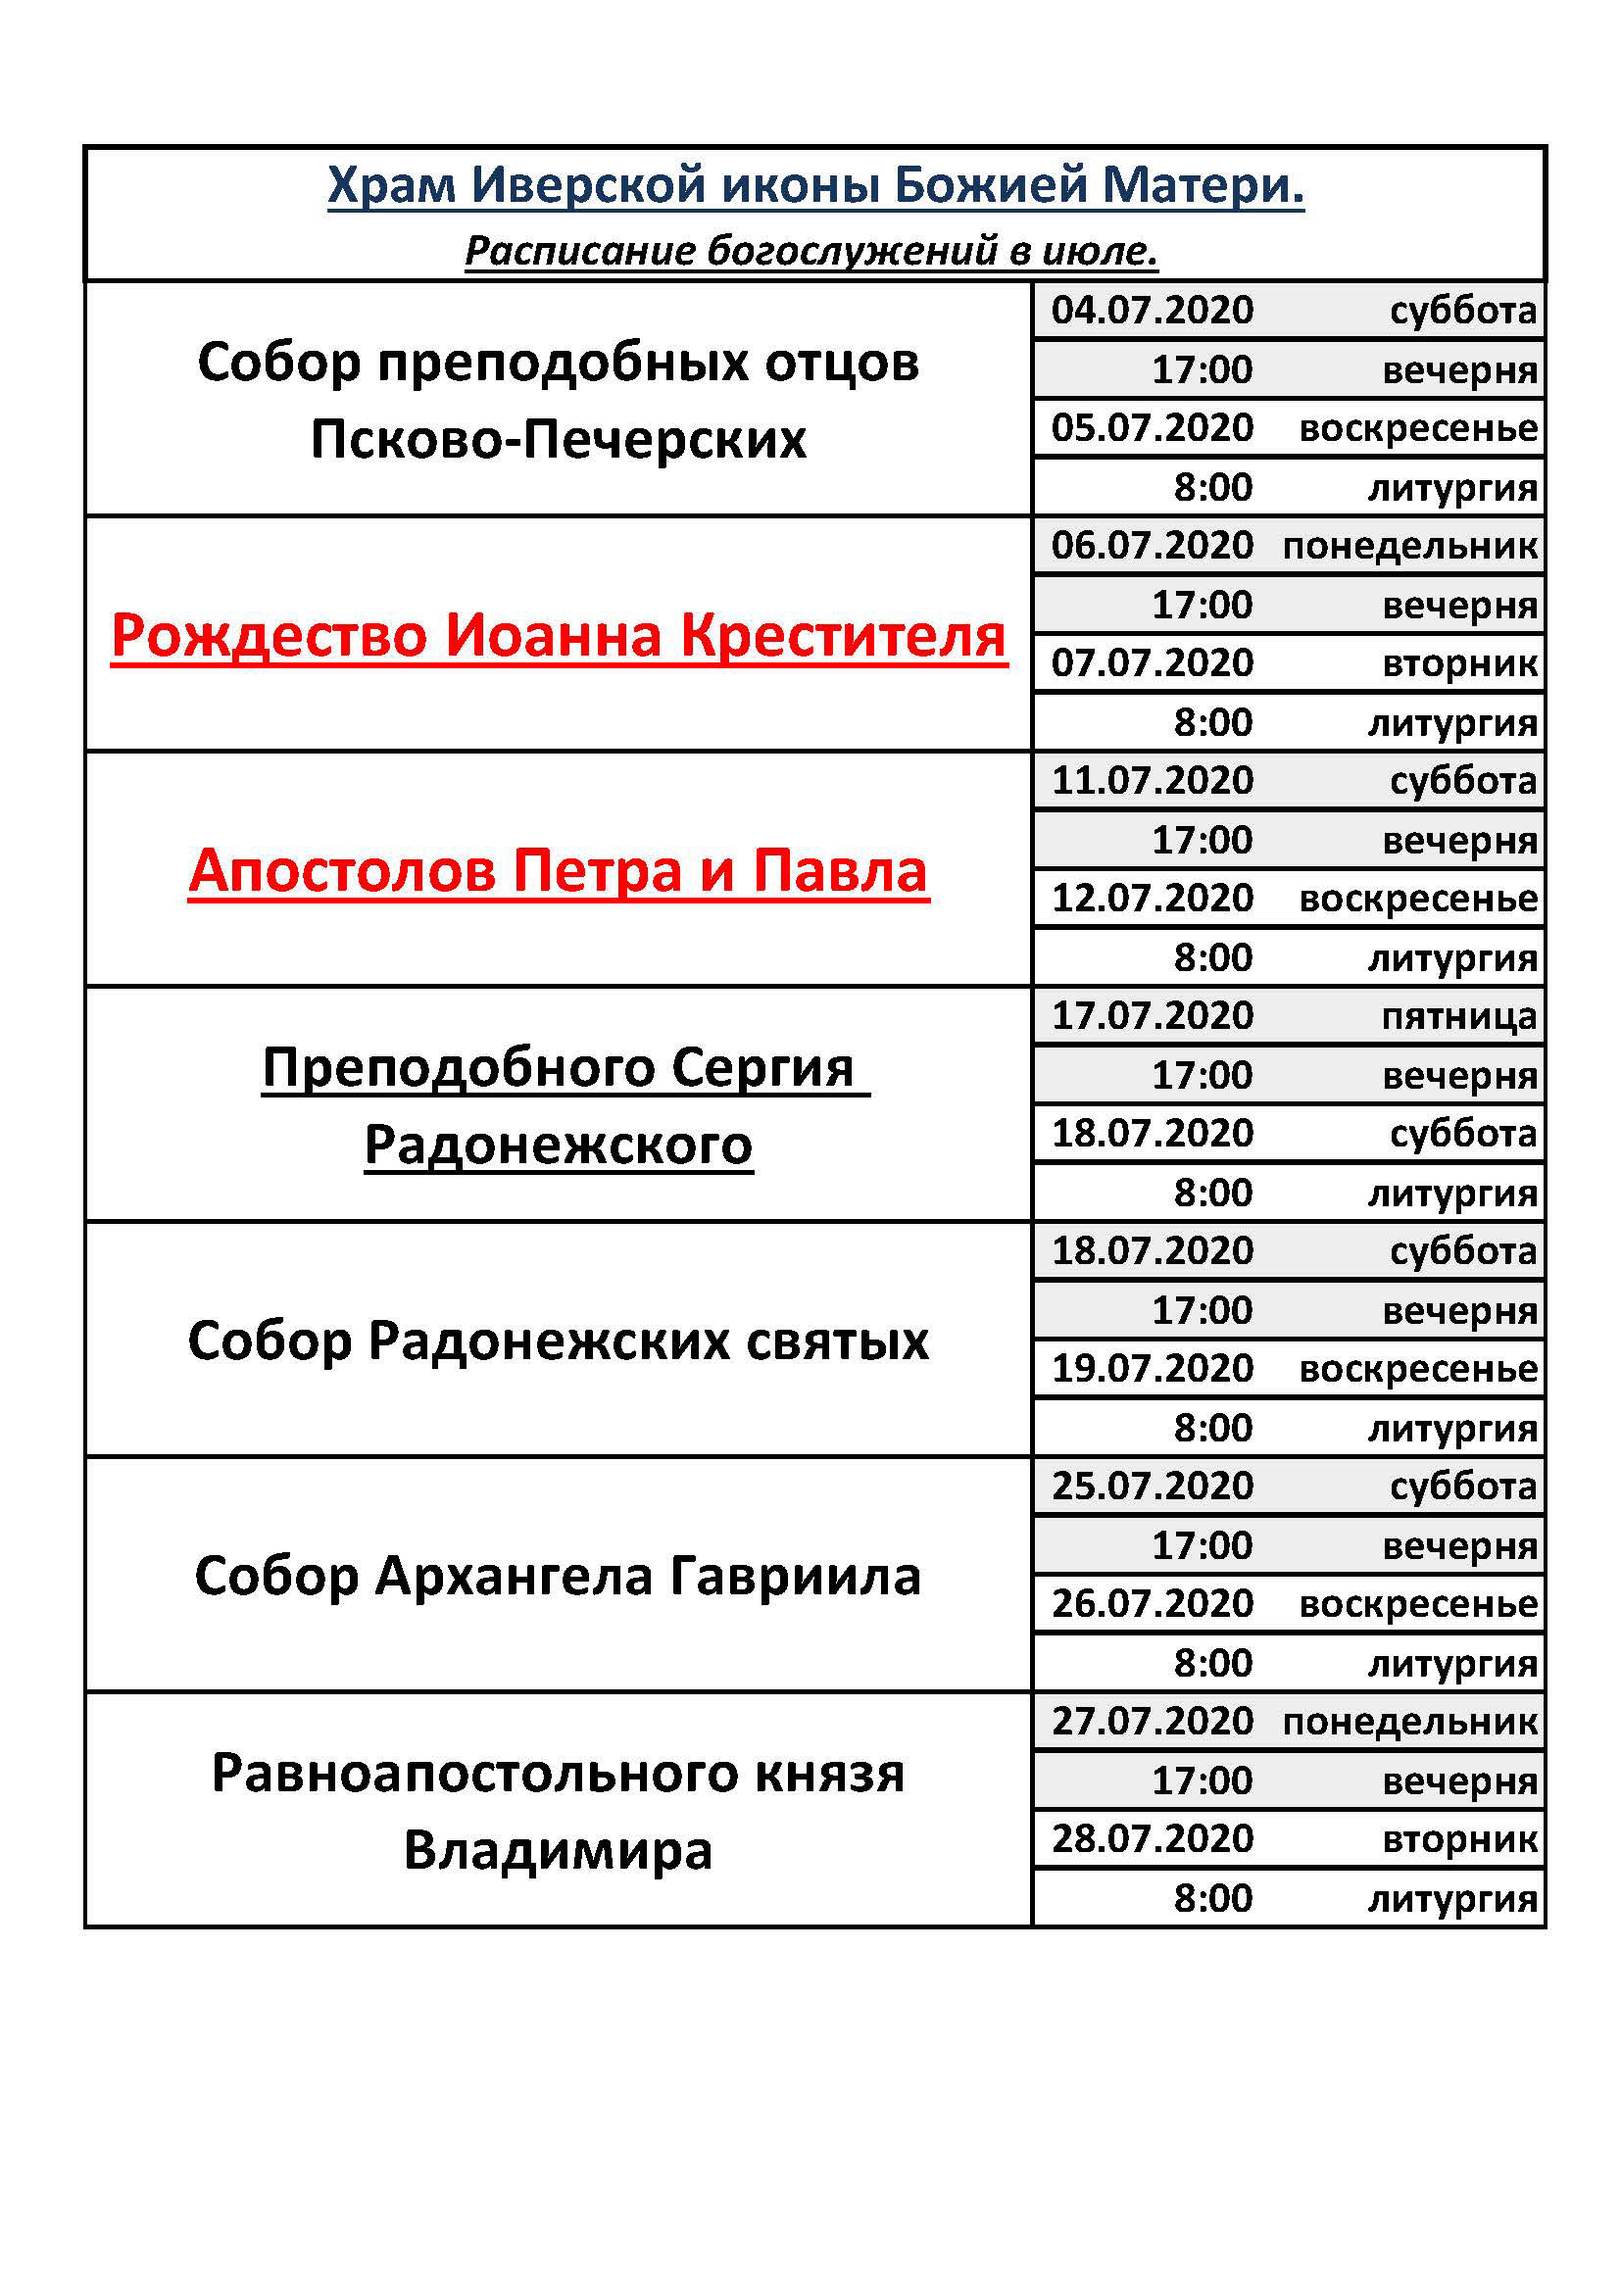
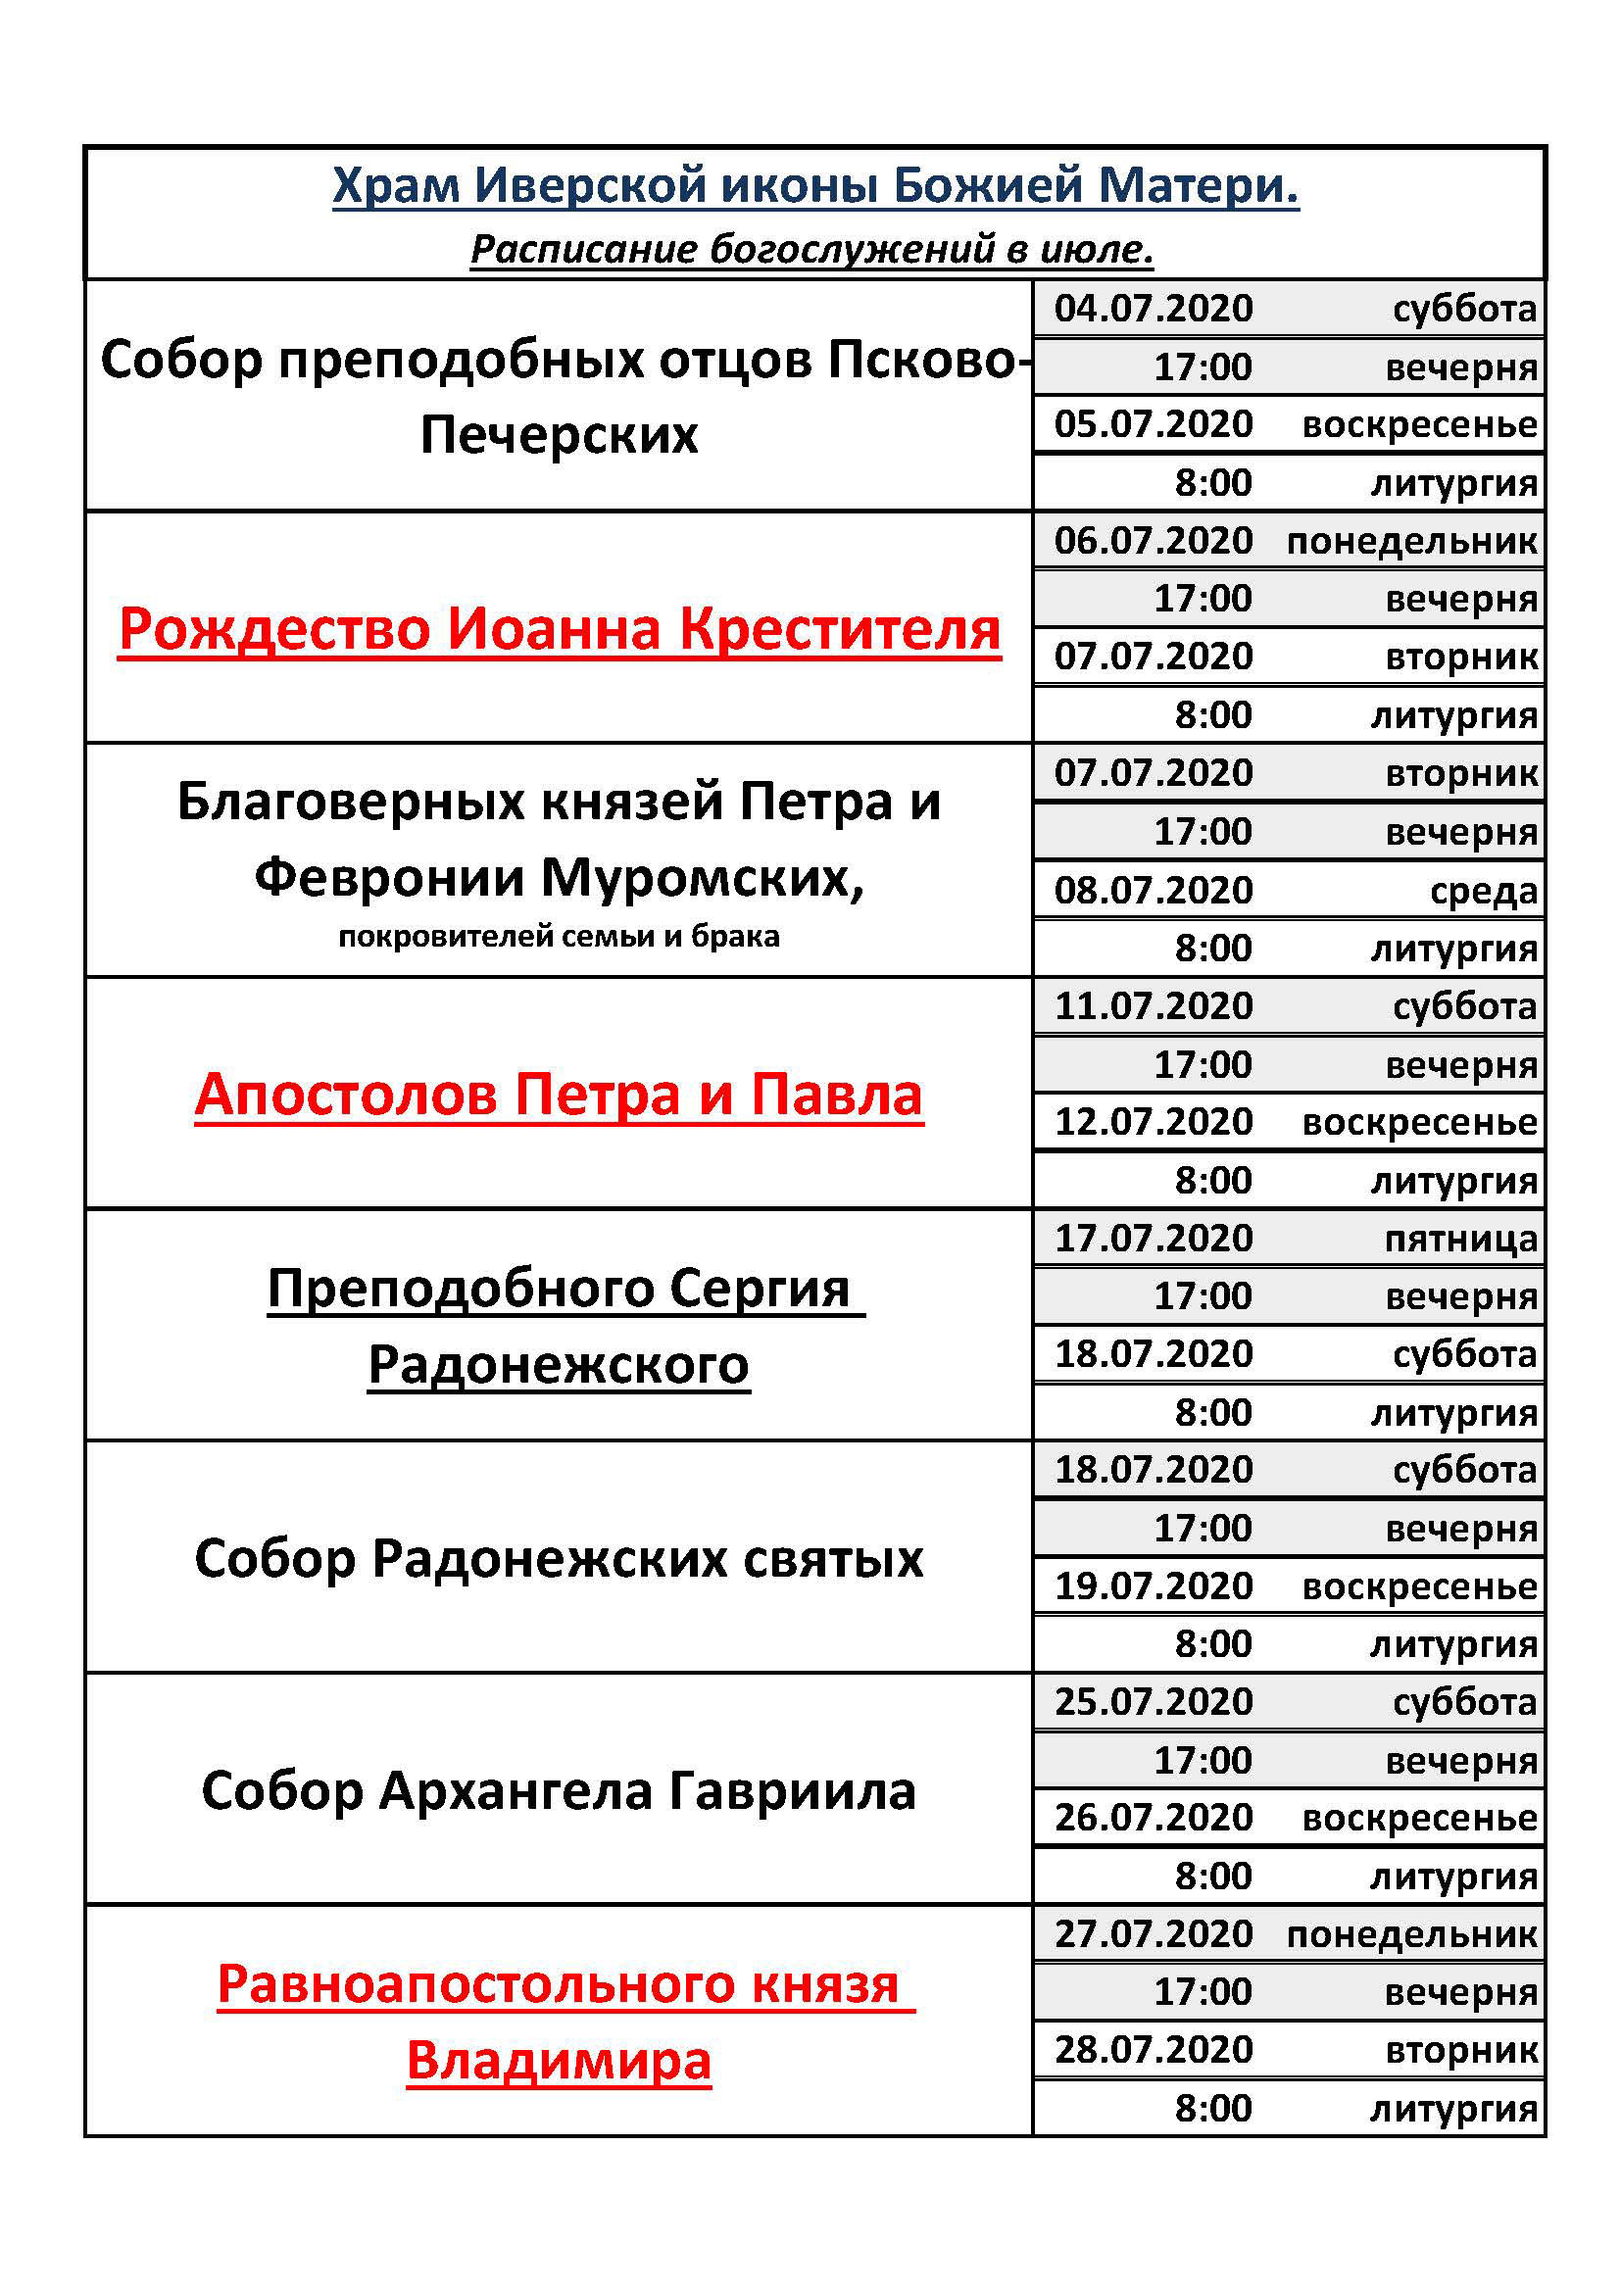
create github pages

Changed region(s): [[0.0617, 0.0624, 0.9559, 0.9363]]

diff --git a/schedule.html b/schedule.html
@@ -81,7 +81,7 @@
     </nav>
 </section>
 
-<section class="engine"><a href="https://mobirise.info/q">free responsive website templates</a></section><section class="mbr-section content5 cid-s39raAkPep mbr-parallax-background" id="content5-g">
+<section class="engine"><a href="https://mobirise.info/k">develop own website</a></section><section class="mbr-section content5 cid-s39raAkPep mbr-parallax-background" id="content5-g">
 
     
 
@@ -155,33 +155,47 @@
                 
                 
                 
-              <td class="body-item mbr-fonts-style display-7">06.07.2020 <br>понедельник</td><td class="body-item mbr-fonts-style display-7">Рождество Иоанна Крестителя</td><td class="body-item mbr-fonts-style display-7">17:00</td></tr><tr>
+              <td class="body-item mbr-fonts-style display-7">06.07.2020 <br>понедельник</td><td class="body-item mbr-fonts-style display-7"><strong>Рождество Иоанна Крестителя</strong></td><td class="body-item mbr-fonts-style display-7">17:00</td></tr><tr>
                 
                 
                 
                 
-              <td class="body-item mbr-fonts-style display-7">07.07.2020 <br>вторник</td><td class="body-item mbr-fonts-style display-7">Рождество Иоанна Крестителя</td><td class="body-item mbr-fonts-style display-7">8:00</td></tr><tr>
+              <td class="body-item mbr-fonts-style display-7">07.07.2020 <br>вторник</td><td class="body-item mbr-fonts-style display-7"><strong>Рождество Иоанна Крестителя</strong></td><td class="body-item mbr-fonts-style display-7">8:00</td></tr><tr>
                 
                 
                 
                 
-              <td class="body-item mbr-fonts-style display-7">11.07.2020 <br>суббота</td><td class="body-item mbr-fonts-style display-7">Апостолов Петра и Павла</td><td class="body-item mbr-fonts-style display-7">17:00</td></tr><tr>
+              <td class="body-item mbr-fonts-style display-7">07.07.2020 <br>вторник</td><td class="body-item mbr-fonts-style display-7">Благоверных князей Петра и
+<br>Февронии Муромских,
+<br><em><strong>покровителей семьи и брака</strong></em></td><td class="body-item mbr-fonts-style display-7">17:00</td></tr><tr>
                 
                 
                 
                 
-              <td class="body-item mbr-fonts-style display-7">12.07.2020 <br>воскресенье</td><td class="body-item mbr-fonts-style display-7">Апостолов Петра и Павла</td><td class="body-item mbr-fonts-style display-7">8:00</td></tr><tr>
+              <td class="body-item mbr-fonts-style display-7">08.07.2020 <br>среда</td><td class="body-item mbr-fonts-style display-7">Благоверных князей Петра и
+<br>Февронии Муромских,
+<br><em><strong>покровителей семьи и брака</strong></em></td><td class="body-item mbr-fonts-style display-7">8:00</td></tr><tr>
                 
                 
                 
                 
-              <td class="body-item mbr-fonts-style display-7">17.07.2020 <br>пятница</td><td class="body-item mbr-fonts-style display-7">Преподобного Сергия
+              <td class="body-item mbr-fonts-style display-7">11.07.2020 <br>суббота</td><td class="body-item mbr-fonts-style display-7"><strong>Апостолов Петра и Павла</strong></td><td class="body-item mbr-fonts-style display-7">17:00</td></tr><tr>
+                
+                
+                
+                
+              <td class="body-item mbr-fonts-style display-7">12.07.2020 <br>воскресенье</td><td class="body-item mbr-fonts-style display-7"><strong>Апостолов Петра и Павла</strong></td><td class="body-item mbr-fonts-style display-7">8:00</td></tr><tr>
+                
+                
+                
+                
+              <td class="body-item mbr-fonts-style display-7">17.07.2020 <br>пятница</td><td class="body-item mbr-fonts-style display-7">Преподобного Сергия 
 <br>Радонежского</td><td class="body-item mbr-fonts-style display-7">17:00</td></tr><tr>
                 
                 
                 
                 
-              <td class="body-item mbr-fonts-style display-7">18.07.2020 <br>суббота</td><td class="body-item mbr-fonts-style display-7">Преподобного Сергия
+              <td class="body-item mbr-fonts-style display-7">18.07.2020 <br>суббота</td><td class="body-item mbr-fonts-style display-7">Преподобного Сергия 
 <br>Радонежского</td><td class="body-item mbr-fonts-style display-7">8:00</td></tr><tr>
                 
                 
@@ -208,7 +222,7 @@
                 
                 
               <td class="body-item mbr-fonts-style display-7">27.07.2020 <br>понедельник</td><td class="body-item mbr-fonts-style display-7">Равноапостольного князя
-<br>Владимира</td><td class="body-item mbr-fonts-style display-7">17:00</td></tr><tr>
+<br>Владимира</td><td class="body-item mbr-fonts-style display-7">8:00</td></tr><tr>
                 
                 
                 
@@ -243,7 +257,7 @@
     <div class="container">
         <div class="media-container-row title">
             <div class="col-12 col-md-8">
-                <div class="mbr-section-btn align-center"><a class="btn btn-warning-outline display-4" href="https://drive.google.com/file/d/12piJ_3nreRXPXGcmWDWZURSL4F97Hsag/view" target="_blank">Скачать в формате pdf</a></div>
+                <div class="mbr-section-btn align-center"><a class="btn btn-warning-outline display-4" href="https://drive.google.com/file/d/1Lr3Ph8FjYavDGs8H1T_ThVKZbMk0t3if/view?usp=sharing" target="_blank">Скачать в формате pdf</a></div>
             </div>
         </div>
     </div>

diff --git a/construction-of-the-parish-school.html b/construction-of-the-parish-school.html
@@ -80,7 +80,7 @@
     </nav>
 </section>
 
-<section class="engine"><a href="https://mobirise.info/i">free website creation software</a></section><section class="cid-s3dlg8Yuvu mbr-fullscreen mbr-parallax-background" id="header2-14">
+<section class="engine"><a href="https://mobirise.info/b">create your own website for free</a></section><section class="cid-s3dlg8Yuvu mbr-fullscreen mbr-parallax-background" id="header2-14">
 
     
 

diff --git a/blessing-of-the-sanatorium-sosnoviy.html b/blessing-of-the-sanatorium-sosnoviy.html
@@ -81,7 +81,7 @@
     </nav>
 </section>
 
-<section class="engine"><a href="https://mobirise.info/n">free simple website templates</a></section><section class="cid-s3AmxwE5g7 mbr-fullscreen mbr-parallax-background" id="header2-2g">
+<section class="engine"><a href="https://mobirise.info/x">free css templates</a></section><section class="cid-s3AmxwE5g7 mbr-fullscreen mbr-parallax-background" id="header2-2g">
 
     
 

diff --git a/index.html b/index.html
@@ -80,7 +80,7 @@
     </nav>
 </section>
 
-<section class="engine"><a href="https://mobirise.info/q">responsive website templates</a></section><section class="cid-s36L3nuWz1 mbr-fullscreen mbr-parallax-background" id="header2-1">
+<section class="engine"><a href="https://mobirise.info/t">amp templates</a></section><section class="cid-s36L3nuWz1 mbr-fullscreen mbr-parallax-background" id="header2-1">
 
     
 

diff --git a/prayer-before-exams-2020.html b/prayer-before-exams-2020.html
@@ -80,7 +80,7 @@
     </nav>
 </section>
 
-<section class="engine"><a href="https://mobirise.info/c">free site builder</a></section><section class="cid-s3AJESPV7L mbr-fullscreen mbr-parallax-background" id="header2-2s">
+<section class="engine"><a href="https://mobirise.info/i">web creation software</a></section><section class="cid-s3AJESPV7L mbr-fullscreen mbr-parallax-background" id="header2-2s">
 
     
 

diff --git a/news-1.html b/news-1.html
@@ -80,7 +80,7 @@
     </nav>
 </section>
 
-<section class="engine"><a href="https://mobirise.info/r">free bootstrap template</a></section><section class="header3 cid-s3ALFcDUHe mbr-parallax-background" id="header3-2v">
+<section class="engine"><a href="https://mobirise.info/y">html web templates</a></section><section class="header3 cid-s3ALFcDUHe mbr-parallax-background" id="header3-2v">
 
     
 

diff --git a/teaching.html b/teaching.html
@@ -80,7 +80,7 @@
     </nav>
 </section>
 
-<section class="engine"><a href="https://mobirise.info/p">web templates free download</a></section><section class="mbr-section content4 cid-s3qWTxibnb" id="content4-24">
+<section class="engine"><a href="https://mobirise.info/l">free site templates</a></section><section class="mbr-section content4 cid-s3qWTxibnb" id="content4-24">
 
     
 

diff --git a/prayer.html b/prayer.html
@@ -80,7 +80,7 @@
     </nav>
 </section>
 
-<section class="engine"><a href="https://mobirise.info/f">simple website creator</a></section><section class="mbr-section content4 cid-s3eZdTrCe1" id="content4-1n">
+<section class="engine"><a href="https://mobirise.info/w">free html5 templates</a></section><section class="mbr-section content4 cid-s3eZdTrCe1" id="content4-1n">
 
     
 

diff --git a/deregulation.html b/deregulation.html
@@ -80,7 +80,7 @@
     </nav>
 </section>
 
-<section class="engine"><a href="https://mobirise.info/b">create a website for free</a></section><section class="mbr-section content4 cid-s39IjjD2Vd" id="content4-p">
+<section class="engine"><a href="https://mobirise.info/l">free web templates</a></section><section class="mbr-section content4 cid-s39IjjD2Vd" id="content4-p">
 
     
 

diff --git a/about.html b/about.html
@@ -80,7 +80,7 @@
     </nav>
 </section>
 
-<section class="engine"><a href="https://mobirise.info/i">free web creation software</a></section><section class="features12 cid-s3qCUojoMI" id="features12-1z">
+<section class="engine"><a href="https://mobirise.info/m">free web design templates</a></section><section class="features12 cid-s3qCUojoMI" id="features12-1z">
     
     
 

diff --git a/donate.html b/donate.html
@@ -80,7 +80,7 @@
     </nav>
 </section>
 
-<section class="engine"><a href="https://mobirise.info/l">free site templates</a></section><section class="mbr-section content4 cid-s3cPA1L9O3" id="content4-v">
+<section class="engine"><a href="https://mobirise.info/z">best website templates</a></section><section class="mbr-section content4 cid-s3cPA1L9O3" id="content4-v">
 
     
 

diff --git a/contacts.html b/contacts.html
@@ -80,7 +80,7 @@
     </nav>
 </section>
 
-<section class="engine"><a href="https://mobirise.info/c">free web builder</a></section><section class="mbr-section content4 cid-s3l5mRjZOk" id="content4-1x">
+<section class="engine"><a href="https://mobirise.info/n">simple site templates</a></section><section class="mbr-section content4 cid-s3l5mRjZOk" id="content4-1x">
 
     
 
